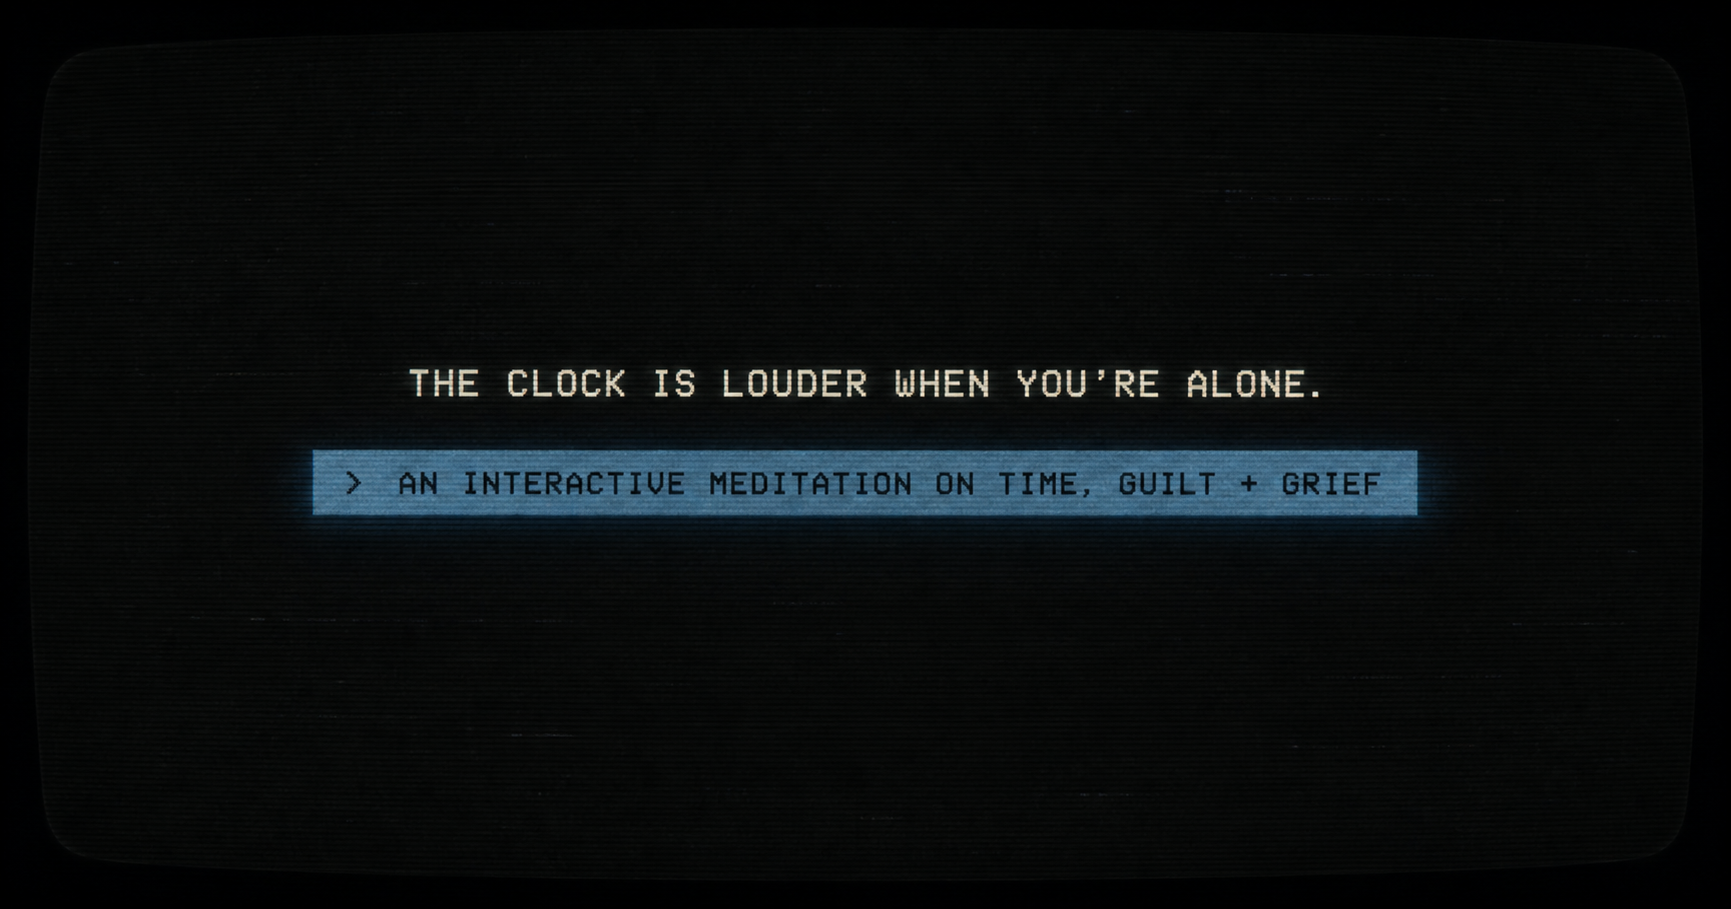
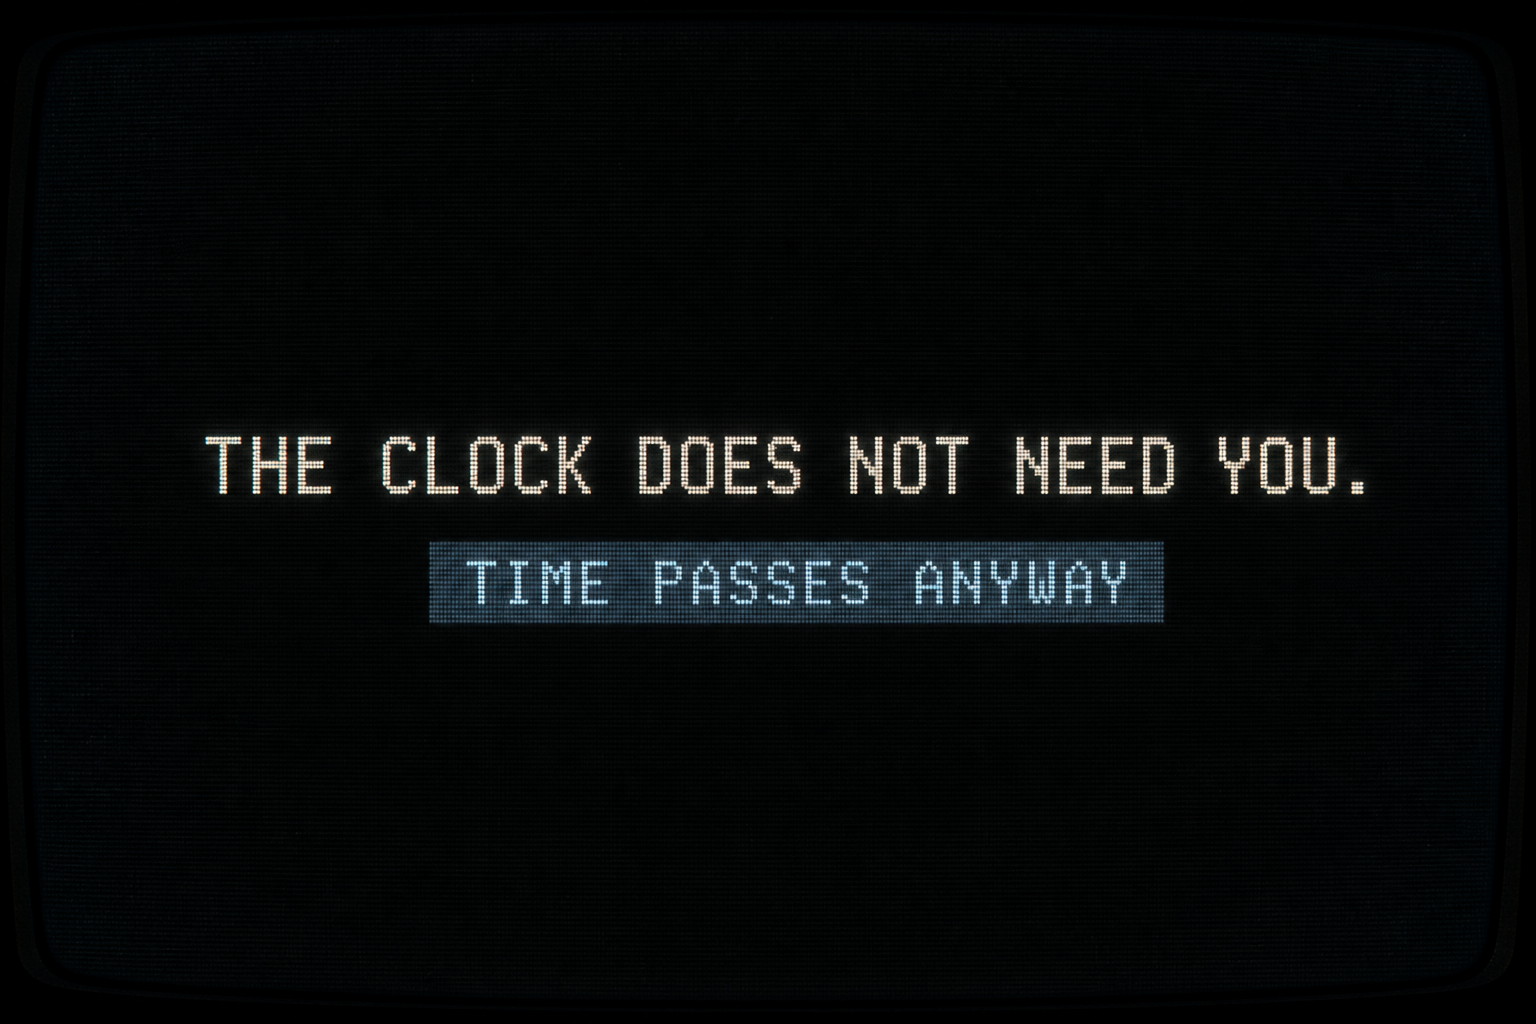
Replace meditation with cold script

Changed region(s): [[0.125, 0.4004, 0.9062, 0.6161]]

diff --git a/app/page.tsx b/app/page.tsx
@@ -6,67 +6,140 @@ type Choice = { label: string; response?: string };
 type Scene = { part: string; title: string; body?: string; choices: Choice[] };
 
 const scenes: Scene[] = [
-  { part: "I / GUILT + THE PASSAGE OF TIME", title: "THE CLOCK IS LOUDER WHEN NO ONE ELSE IS IN THE ROOM.", body: "You look at someone you love and recognize, suddenly, the possibility of rest. Do you—", choices: [
-    { label: "Say nothing. The moment passes, although the feeling does not.", response: "THE MOMENT PASSES. BUT YOU LOVED THEM ANYWAY. I WONDER IF THAT'S ENOUGH." },
-    { label: "Blurt out, “You make me feel like I could stop running.”", response: "FOR ONCE, YOU LET THE FEELING ARRIVE BEFORE THE FEAR COULD NAME IT." },
-  ]},
-  { part: "I / GUILT + THE PASSAGE OF TIME", title: "MORNING ENTERS WITHOUT ASKING WHAT HAPPENED THE NIGHT BEFORE.", body: "Light moves through the blinds with a purity that feels undeserving. It lands on your face anyway. Do you—", choices: [
-    { label: "Turn away.", response: "THE DARK DOESN'T ASK YOU TO EXPLAIN YOURSELF." },
-    { label: "Let it reach you. Remain still long enough to discover that softness does not always have to be earned.", response: "WARMTH, IT TURNS OUT, DOESN'T KEEP A LEDGER." },
-  ]},
-  { part: "I / GUILT + THE PASSAGE OF TIME", title: "A CHILD POINTS AT YOU AND ASKS, “ARE YOU OLD?”", choices: [
-    { label: "“No, I’m cool.”", response: "THE CHILD LOOKS UNCONVINCED. YOU SURVIVE." },
-    { label: "Whisper, “We are all decaying at approximately the same rate.”", response: "THE CHILD LEAVES WITH A NEW AND UNNECESSARY AWARENESS OF TIME." },
-  ]},
-  { part: "I / GUILT + THE PASSAGE OF TIME", title: "YOU FIND AN UNFINISHED SKETCH IN YOUR OLD NOTEBOOK.", body: "You remember loving it once but can’t remember where you were going with it. Do you—", choices: [
-    { label: "Close the notebook. Not everything has to be finished to matter.", response: "THE UNFINISHED THING KEEPS ITS DIGNITY." },
-    { label: "Leave it as it is. It’s honest this way.", response: "A FRAGMENT IS STILL EVIDENCE THAT YOU WERE HERE." },
-  ]},
-  { part: "I / GUILT + THE PASSAGE OF TIME", title: "THE SKY IS BURNT ORANGE, EXCESSIVE AND TEMPORARY.", body: "You leave the office just as the sun is setting. Do you—", choices: [
-    { label: "Keep walking. There will be another sunset.", response: "THERE WILL BE. BUT NOT THIS ONE." },
-    { label: "Stop and watch until it disappears.", response: "I WON THIS ONE, TIME. I NOTICED." },
-  ]},
-  { part: "I / GUILT + THE PASSAGE OF TIME", title: "A STRANGER IS CRYING QUIETLY ON THE TRAIN.", body: "You cannot repair the cause. You cannot know what it is. Is privacy another name for looking away?", choices: [
-    { label: "Meet their eyes for one second—long enough to register that they are there.", response: "SOMETIMES, NOTICING IS ENOUGH—A QUIET ACKNOWLEDGMENT." },
-    { label: "Place a crumpled napkin beside them and leave.", response: "KINDNESS CAN BE ANONYMOUS." },
-  ]},
-  { part: "I / GUILT + THE PASSAGE OF TIME", title: "YOU FIND AN OLD PHOTOGRAPH OF YOURSELF.", body: "The person in it has not yet lived through what you now use to explain them. Do you—", choices: [
-    { label: "Apologize: “I’m sorry for what I allowed to happen to us.”", response: "…BUT I WAS DOING MY BEST, AND THE PHOTO DOESN'T ARGUE." },
-    { label: "Report back: “You would be proud of me. I am still here.”", response: "THE PERSON IN THE PHOTO BELIEVES YOU." },
-  ]},
-  { part: "I / GUILT + THE PASSAGE OF TIME", title: "SOMEONE ASKS HOW YOU ARE DOING.", body: "The question is usually procedural. A complete answer would stop the machinery. Do you—", choices: [
-    { label: "Say, “I’m fine.”", response: "SOMETIMES LANGUAGE EXISTS PRIMARILY TO KEEP THE DAY MOVING." },
-    { label: "Say, “Not well, but I am still trying.”", response: "THE MACHINERY PAUSES. NOTHING BREAKS." },
-    { label: "Laugh. “We’re all on fire a little, right?”", response: "LAUGHING IS BREATHING, AND BREATHING IS SURVIVING." },
-  ]},
-  { part: "I / GUILT + THE PASSAGE OF TIME", title: "YOU WAKE UP AT THREE IN THE AFTERNOON.", body: "The ceiling stares back as you tally the hours already gone.", choices: [
-    { label: "Remain in bed. Beginning late feels worse than not beginning.", response: "THE DAY WAITS WITHOUT ACCUSING YOU." },
-    { label: "Say, “You win, time,” then get up anyway.", response: "LOSING DOESN'T MEAN YOU CAN'T STILL PLAY." },
-    { label: "Squint at the sun. “At least I didn’t miss tomorrow.”", response: "TIME IS A HUMAN INVENTION. SO IS GUILT." },
-  ]},
-  { part: "II / GRIEF", title: "GRIEF IS THE SHIP, SINKING BENEATH YOU.", body: "The lifeboats are there, but stepping in feels like leaving them behind. You find their handwriting on an old note. Do you—", choices: [
-    { label: "Smile through tears. Their handwriting is messier than you remembered.", response: "IT IS PROOF THAT THEY WERE REAL. YOU DIDN'T IMAGINE THEM." },
-    { label: "Trace the letters and whisper, “You were here.”", response: "THE PAPER HOLDS THE PRESSURE OF THEIR HAND." },
-  ]},
-  { part: "II / GRIEF", title: "A SONG THEY LOVED BEGINS TO PLAY.", body: "Suddenly it feels like they’re sitting next to you again. Do you—", choices: [
-    { label: "Close your eyes and let it play.", response: "THE ACHE IS JUST LOVE WEARING ITS HEAVIEST COAT." },
-    { label: "Say to the empty room, “You really loved this one, didn’t you?”", response: "THE EMPTY ROOM LISTENS." },
-  ]},
-  { part: "II / GRIEF", title: "YOU DREAM ABOUT THEM.", body: "For a moment, they’re next to you. You wake with the lingering feeling of their voice. Do you—", choices: [
-    { label: "Try to fall back asleep. Ask your brain to let them stay.", response: "THE DREAM IS ALREADY CLOSING ITS DOOR." },
-    { label: "Lie still and whisper, “Thank you for visiting.”", response: "FOR A MOMENT, THE SILENCE FEELS WARM." },
-  ]},
-  { part: "II / GRIEF", title: "YOU’RE SORTING THROUGH THEIR OLD BELONGINGS.", body: "A jacket, a favorite book, a scarf that still smells like them. Do you—", choices: [
-    { label: "Keep something small—a pen, a bookmark, a piece of their life.", response: "SHHHH… YOU SLIP IT INTO YOUR POCKET LIKE A SECRET." },
-    { label: "Whisper, “I’ll take care of this for you.”", response: "THE ORDINARY OBJECT BECOMES SACRED." },
-  ]},
-  { part: "II / GRIEF", title: "SOMEONE SAYS, “THEY WOULDN’T WANT YOU TO BE SAD.”", choices: [
-    { label: "Feel sad anyway.", response: "GRIEF DOESN'T LISTEN TO LOGIC. YOU ARE ALLOWED TO MISS THEM." },
-  ]},
-  { part: "II / GRIEF", title: "YOU’RE LAUGHING AT SOMETHING RIDICULOUS.", body: "Then it catches in your throat: how much they would have loved this moment. Do you—", choices: [
-    { label: "Laugh harder. You’re laughing for both of you.", response: "FOR A SECOND, IT FEELS LIKE THEY'RE SITTING NEXT TO YOU AGAIN." },
-    { label: "Say something you know would’ve made them laugh.", response: "MEMORY DOESN'T HAVE TO BE PERFECT TO BE TRUE." },
-  ]},
+  {
+    part: "I / GUILT + TIME",
+    title: "THE ROOM IS QUIET. THE CLOCK IS NOT.",
+    body: "You could tell them. You could let the moment close.",
+    choices: [
+      { label: "Say nothing.", response: "YOU SAID NOTHING. THE MOMENT CLOSED." },
+      { label: "Tell them: “You make me want to stop running.”", response: "YOU SAID IT. NOW IT EXISTS." },
+    ],
+  },
+  {
+    part: "I / GUILT + TIME",
+    title: "MORNING ARRIVES.",
+    body: "It does not ask what happened.",
+    choices: [
+      { label: "Turn away.", response: "THE LIGHT MOVES ON." },
+      { label: "Stay still.", response: "IT REACHES YOU. NO VERDICT FOLLOWS." },
+    ],
+  },
+  {
+    part: "I / GUILT + TIME",
+    title: "A CHILD ASKS IF YOU ARE OLD.",
+    choices: [
+      { label: "“No. I’m cool.”", response: "THE CHILD DOES NOT BELIEVE YOU." },
+      { label: "“WE ARE ALL DECAYING.”", response: "THE CHILD LEAVES." },
+    ],
+  },
+  {
+    part: "I / GUILT + TIME",
+    title: "THE SKETCH IS UNFINISHED.",
+    body: "You no longer remember what it was meant to become.",
+    choices: [
+      { label: "Close the notebook.", response: "THE PAGE REMAINS UNFINISHED." },
+      { label: "Leave it open.", response: "NOTHING COMPLETES ITSELF." },
+    ],
+  },
+  {
+    part: "I / GUILT + TIME",
+    title: "THE SUN IS SETTING.",
+    body: "You are late leaving work.",
+    choices: [
+      { label: "Keep walking.", response: "YOU MISS IT." },
+      { label: "Stop.", response: "YOU WATCH. IT ENDS ANYWAY." },
+    ],
+  },
+  {
+    part: "I / GUILT + TIME",
+    title: "A STRANGER IS CRYING ON THE TRAIN.",
+    body: "You do not know why.",
+    choices: [
+      { label: "Look at them.", response: "THEY SEE YOU SEE THEM." },
+      { label: "Leave a napkin beside them.", response: "YOU LEAVE BEFORE IT MEANS MORE." },
+    ],
+  },
+  {
+    part: "I / GUILT + TIME",
+    title: "YOU FIND AN OLD PHOTO OF YOURSELF.",
+    body: "They do not know what happens next.",
+    choices: [
+      { label: "Apologize.", response: "THE PHOTO CANNOT ABSOLVE YOU." },
+      { label: "Say, “I survived.”", response: "THE PHOTO CANNOT ANSWER." },
+    ],
+  },
+  {
+    part: "I / GUILT + TIME",
+    title: "SOMEONE ASKS HOW YOU ARE.",
+    body: "A response is expected.",
+    choices: [
+      { label: "“Fine.”", response: "THE EXCHANGE COMPLETES." },
+      { label: "“Not well.”", response: "THE SCRIPT BREAKS." },
+      { label: "Make a joke.", response: "THEY LAUGH. OR THEY DO NOT." },
+    ],
+  },
+  {
+    part: "I / GUILT + TIME",
+    title: "IT IS THREE IN THE AFTERNOON.",
+    body: "You are still in bed.",
+    choices: [
+      { label: "Stay there.", response: "ANOTHER HOUR PASSES." },
+      { label: "Get up.", response: "THE DAY DOES NOT RESTART." },
+      { label: "Say, “At least it isn’t tomorrow.”", response: "NOT YET." },
+    ],
+  },
+  {
+    part: "II / GRIEF",
+    title: "THEIR HANDWRITING SURVIVED THEM.",
+    body: "The note says nothing important.",
+    choices: [
+      { label: "Laugh at how messy it is.", response: "FOR A SECOND, THEY ARE ORDINARY AGAIN." },
+      { label: "Trace the letters.", response: "THE INK HOLDS. THEY DO NOT." },
+    ],
+  },
+  {
+    part: "II / GRIEF",
+    title: "THEIR SONG STARTS PLAYING.",
+    body: "You did not choose it.",
+    choices: [
+      { label: "Let it play.", response: "THE SONG ENDS." },
+      { label: "Speak to the room.", response: "NO ONE ANSWERS." },
+    ],
+  },
+  {
+    part: "II / GRIEF",
+    title: "YOU DREAM THEY ARE ALIVE.",
+    body: "Then you wake up.",
+    choices: [
+      { label: "Try to go back.", response: "YOU CANNOT RETURN ON COMMAND." },
+      { label: "Say, “Thank you.”", response: "THE ROOM STAYS EMPTY." },
+    ],
+  },
+  {
+    part: "II / GRIEF",
+    title: "THEIR THINGS ARE STILL HERE.",
+    body: "A jacket. A book. A scarf.",
+    choices: [
+      { label: "Keep something.", response: "YOU TAKE THE OBJECT. NOT THE PERSON." },
+      { label: "Promise to care for it.", response: "THE OBJECT ACCEPTS NO PROMISES." },
+    ],
+  },
+  {
+    part: "II / GRIEF",
+    title: "SOMEONE SAYS THEY WOULD NOT WANT YOU SAD.",
+    choices: [
+      { label: "Be sad.", response: "THE DEAD DO NOT SET TERMS." },
+    ],
+  },
+  {
+    part: "II / GRIEF",
+    title: "YOU LAUGH. THEN REMEMBER.",
+    body: "They would have liked this.",
+    choices: [
+      { label: "Keep laughing.", response: "THE MOMENT HOLDS BOTH." },
+      { label: "Say what they would have said.", response: "YOUR VOICE HAS TO DO." },
+    ],
+  },
 ];
 
 export default function Home() {
@@ -81,10 +154,20 @@ export default function Home() {
   function choose(choiceIndex: number) {
     if (!scene || reflection) return;
     setPath((p) => [...p, choiceIndex]);
-    setReflection(scene.choices[choiceIndex].response ?? "YOU CHOSE. TIME CONTINUES.");
+    setReflection(scene.choices[choiceIndex].response ?? "CHOICE RECORDED. TIME CONTINUES.");
   }
-  function advance() { setReflection(null); setIndex((i) => i + 1); }
-  function restart() { setStarted(false); setIndex(0); setPath([]); setReflection(null); }
+
+  function advance() {
+    setReflection(null);
+    setIndex((i) => i + 1);
+  }
+
+  function restart() {
+    setStarted(false);
+    setIndex(0);
+    setPath([]);
+    setReflection(null);
+  }
 
   useEffect(() => {
     const onKey = (e: KeyboardEvent) => {
@@ -95,6 +178,7 @@ export default function Home() {
         if (n < scene.choices.length) choose(n);
       }
     };
+
     window.addEventListener("keydown", onKey);
     return () => window.removeEventListener("keydown", onKey);
   });
@@ -109,19 +193,19 @@ export default function Home() {
 
       {!started ? (
         <section className="intro">
-          <p className="eyebrow">AN INTERACTIVE MEDITATION ON TIME, GUILT + GRIEF</p>
-          <h1>THE CLOCK<br />IS LOUDER<br />WHEN YOU’RE ALONE.</h1>
-          <p className="lede">This is not a test. Nothing here can tell you who you are. It can only ask what you noticed while time was passing.</p>
+          <p className="eyebrow">A SHORT GAME ABOUT TIME, GUILT + LOSS</p>
+          <h1>THE CLOCK<br />DOES NOT<br />NEED YOU.</h1>
+          <p className="lede">Choose. Read the result. Continue.</p>
           <button className="primary" onClick={() => setStarted(true)}>BEGIN <span>↵</span></button>
-          <p className="hint">HEADPHONES RECOMMENDED · 8–10 MINUTES</p>
+          <p className="hint">15 SCENES · 5–7 MINUTES</p>
         </section>
       ) : finished ? (
         <section className="ending">
-          <p className="eyebrow">YOUR PATH FORWARD</p>
-          <h1>TAKE CARE,<br />MY FRIEND.</h1>
-          <p className="closing">Grief isn’t something you get over. It is something you carry, tucked into all the little spaces they left behind. The details fade first. The love stays—stubborn and unrelenting.</p>
+          <p className="eyebrow">RUN COMPLETE</p>
+          <h1>NOTHING<br />RESOLVED.</h1>
+          <p className="closing">You chose. Time passed. What is gone remains gone. You remain.</p>
           <div className="pathline" aria-label="Your path">{path.map((p, i) => <i key={i} className={p === 0 ? "dim" : ""} />)}</div>
-          <button className="primary" onClick={restart}>BEGIN AGAIN <span>↺</span></button>
+          <button className="primary" onClick={restart}>RESTART <span>↺</span></button>
         </section>
       ) : (
         <section className="scene" aria-live="polite">
@@ -131,17 +215,27 @@ export default function Home() {
             <h2>{scene.title}</h2>
             {scene.body && <p className="bodycopy">{scene.body}</p>}
             <div className="choices">
-              {scene.choices.map((choice, i) => <button key={choice.label} onClick={() => choose(i)}><b>› {i + 1}</b><span>{choice.label}</span><em>_</em></button>)}
+              {scene.choices.map((choice, i) => (
+                <button key={choice.label} onClick={() => choose(i)}>
+                  <b>› {i + 1}</b>
+                  <span>{choice.label}</span>
+                  <em>_</em>
+                </button>
+              ))}
             </div>
-            <p className="hint">PRESS 1–{scene.choices.length} TO CHOOSE</p>
+            <p className="hint">PRESS 1–{scene.choices.length}</p>
           </> : <div className="reflection">
-            <p className="eyebrow">THE MOMENT PASSES</p>
+            <p className="eyebrow">RESULT</p>
             <h2>{reflection}</h2>
-            <button className="primary" onClick={advance}>{index === scenes.length - 1 ? "SEE YOUR PATH" : "CONTINUE"} <span>↵</span></button>
+            <button className="primary" onClick={advance}>
+              {index === scenes.length - 1 ? "VIEW RUN" : "NEXT"} <span>↵</span>
+            </button>
           </div>}
         </section>
       )}
-      <footer><span>THE DAY IS NOT ACCUSING YOU.</span><span>© NOW</span></footer>
+
+      <footer><span>TIME DOES NOT REQUIRE YOUR CONSENT.</span><span>© NOW</span></footer>
     </main>
   );
 }
+

diff --git a/app/layout.tsx b/app/layout.tsx
@@ -5,17 +5,17 @@ import "./globals.css";
 const mono = Geist_Mono({ variable: "--font-geist-mono", subsets: ["latin"] });
 
 export const metadata: Metadata = {
-  title: "The Clock Is Louder — An Interactive Meditation",
-  description: "A choose-your-own-adventure about guilt, time, grief, and the quiet act of noticing.",
+  title: "Time Passes Anyway",
+  description: "A short interactive meditation about time, guilt, and loss.",
   openGraph: {
-    title: "The Clock Is Louder When You’re Alone",
-    description: "An interactive meditation on time, guilt + grief.",
-    images: [{ url: "/og.png", width: 1536, height: 1024, alt: "The clock is louder when you’re alone." }],
+    title: "The Clock Does Not Need You",
+    description: "A short interactive meditation about time, guilt + loss.",
+    images: [{ url: "/og.png", width: 1536, height: 1024, alt: "The clock does not need you." }],
   },
   twitter: {
     card: "summary_large_image",
-    title: "The Clock Is Louder When You’re Alone",
-    description: "An interactive meditation on time, guilt + grief.",
+    title: "The Clock Does Not Need You",
+    description: "A short interactive meditation about time, guilt + loss.",
     images: ["/og.png"],
   },
 };